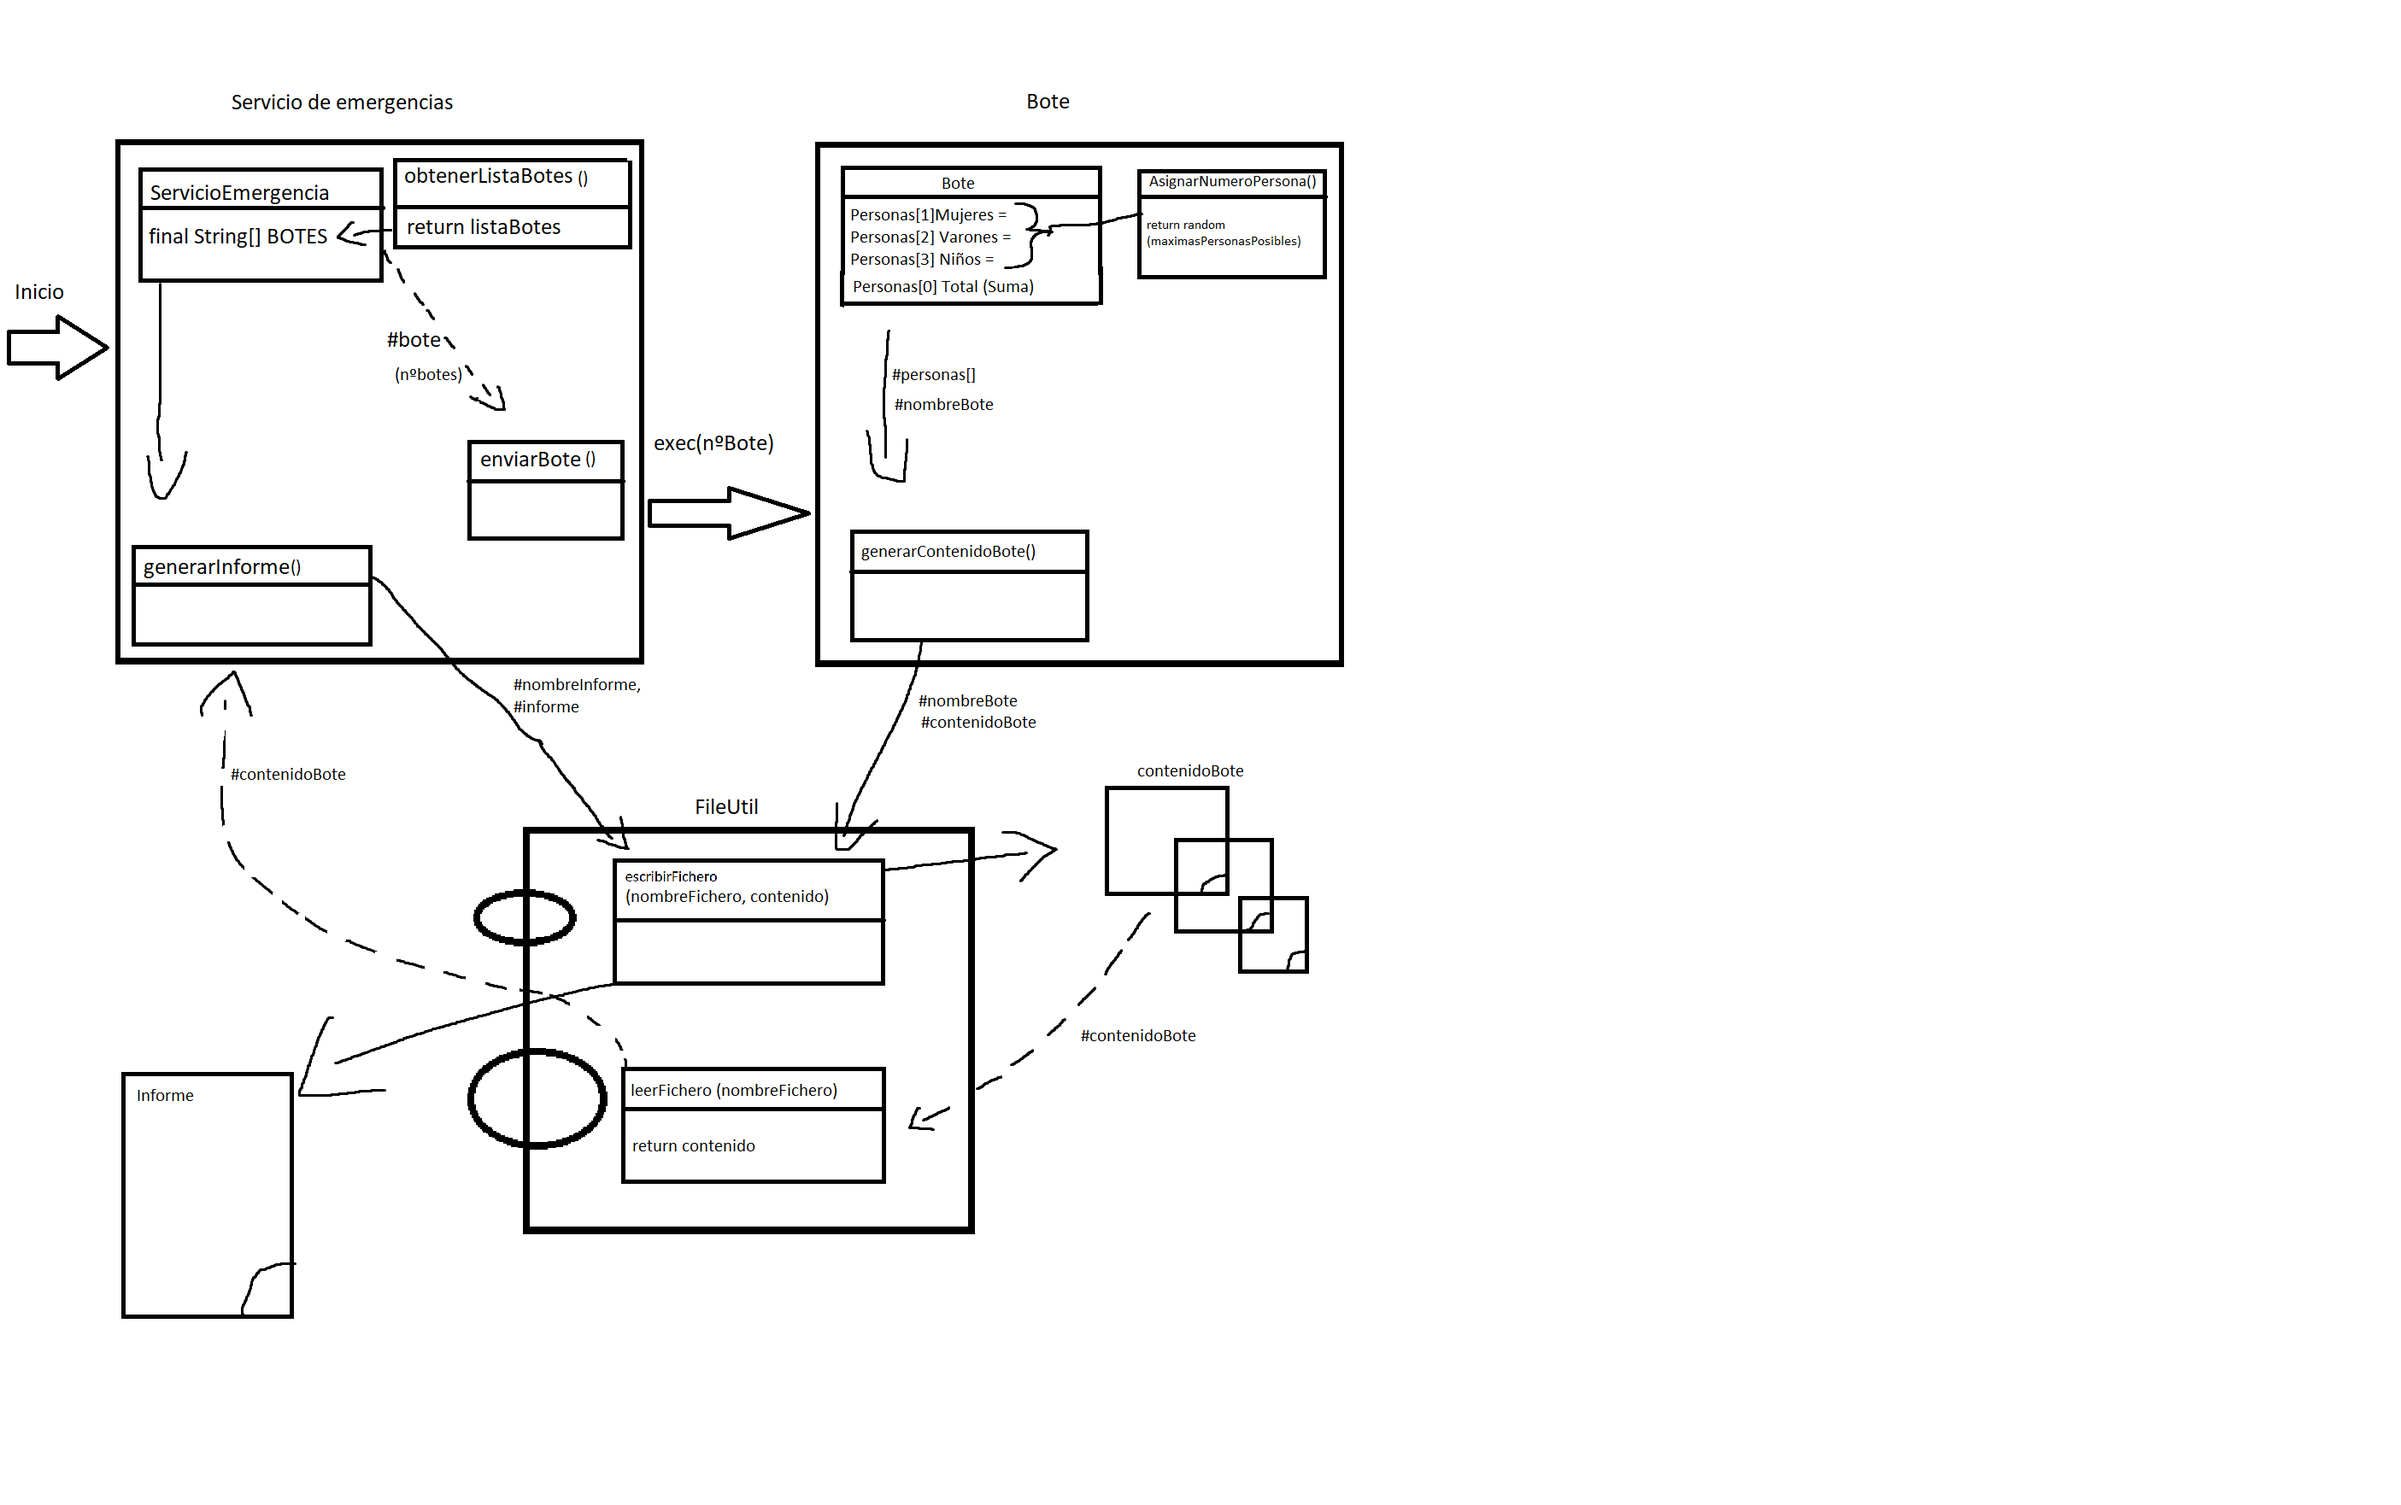
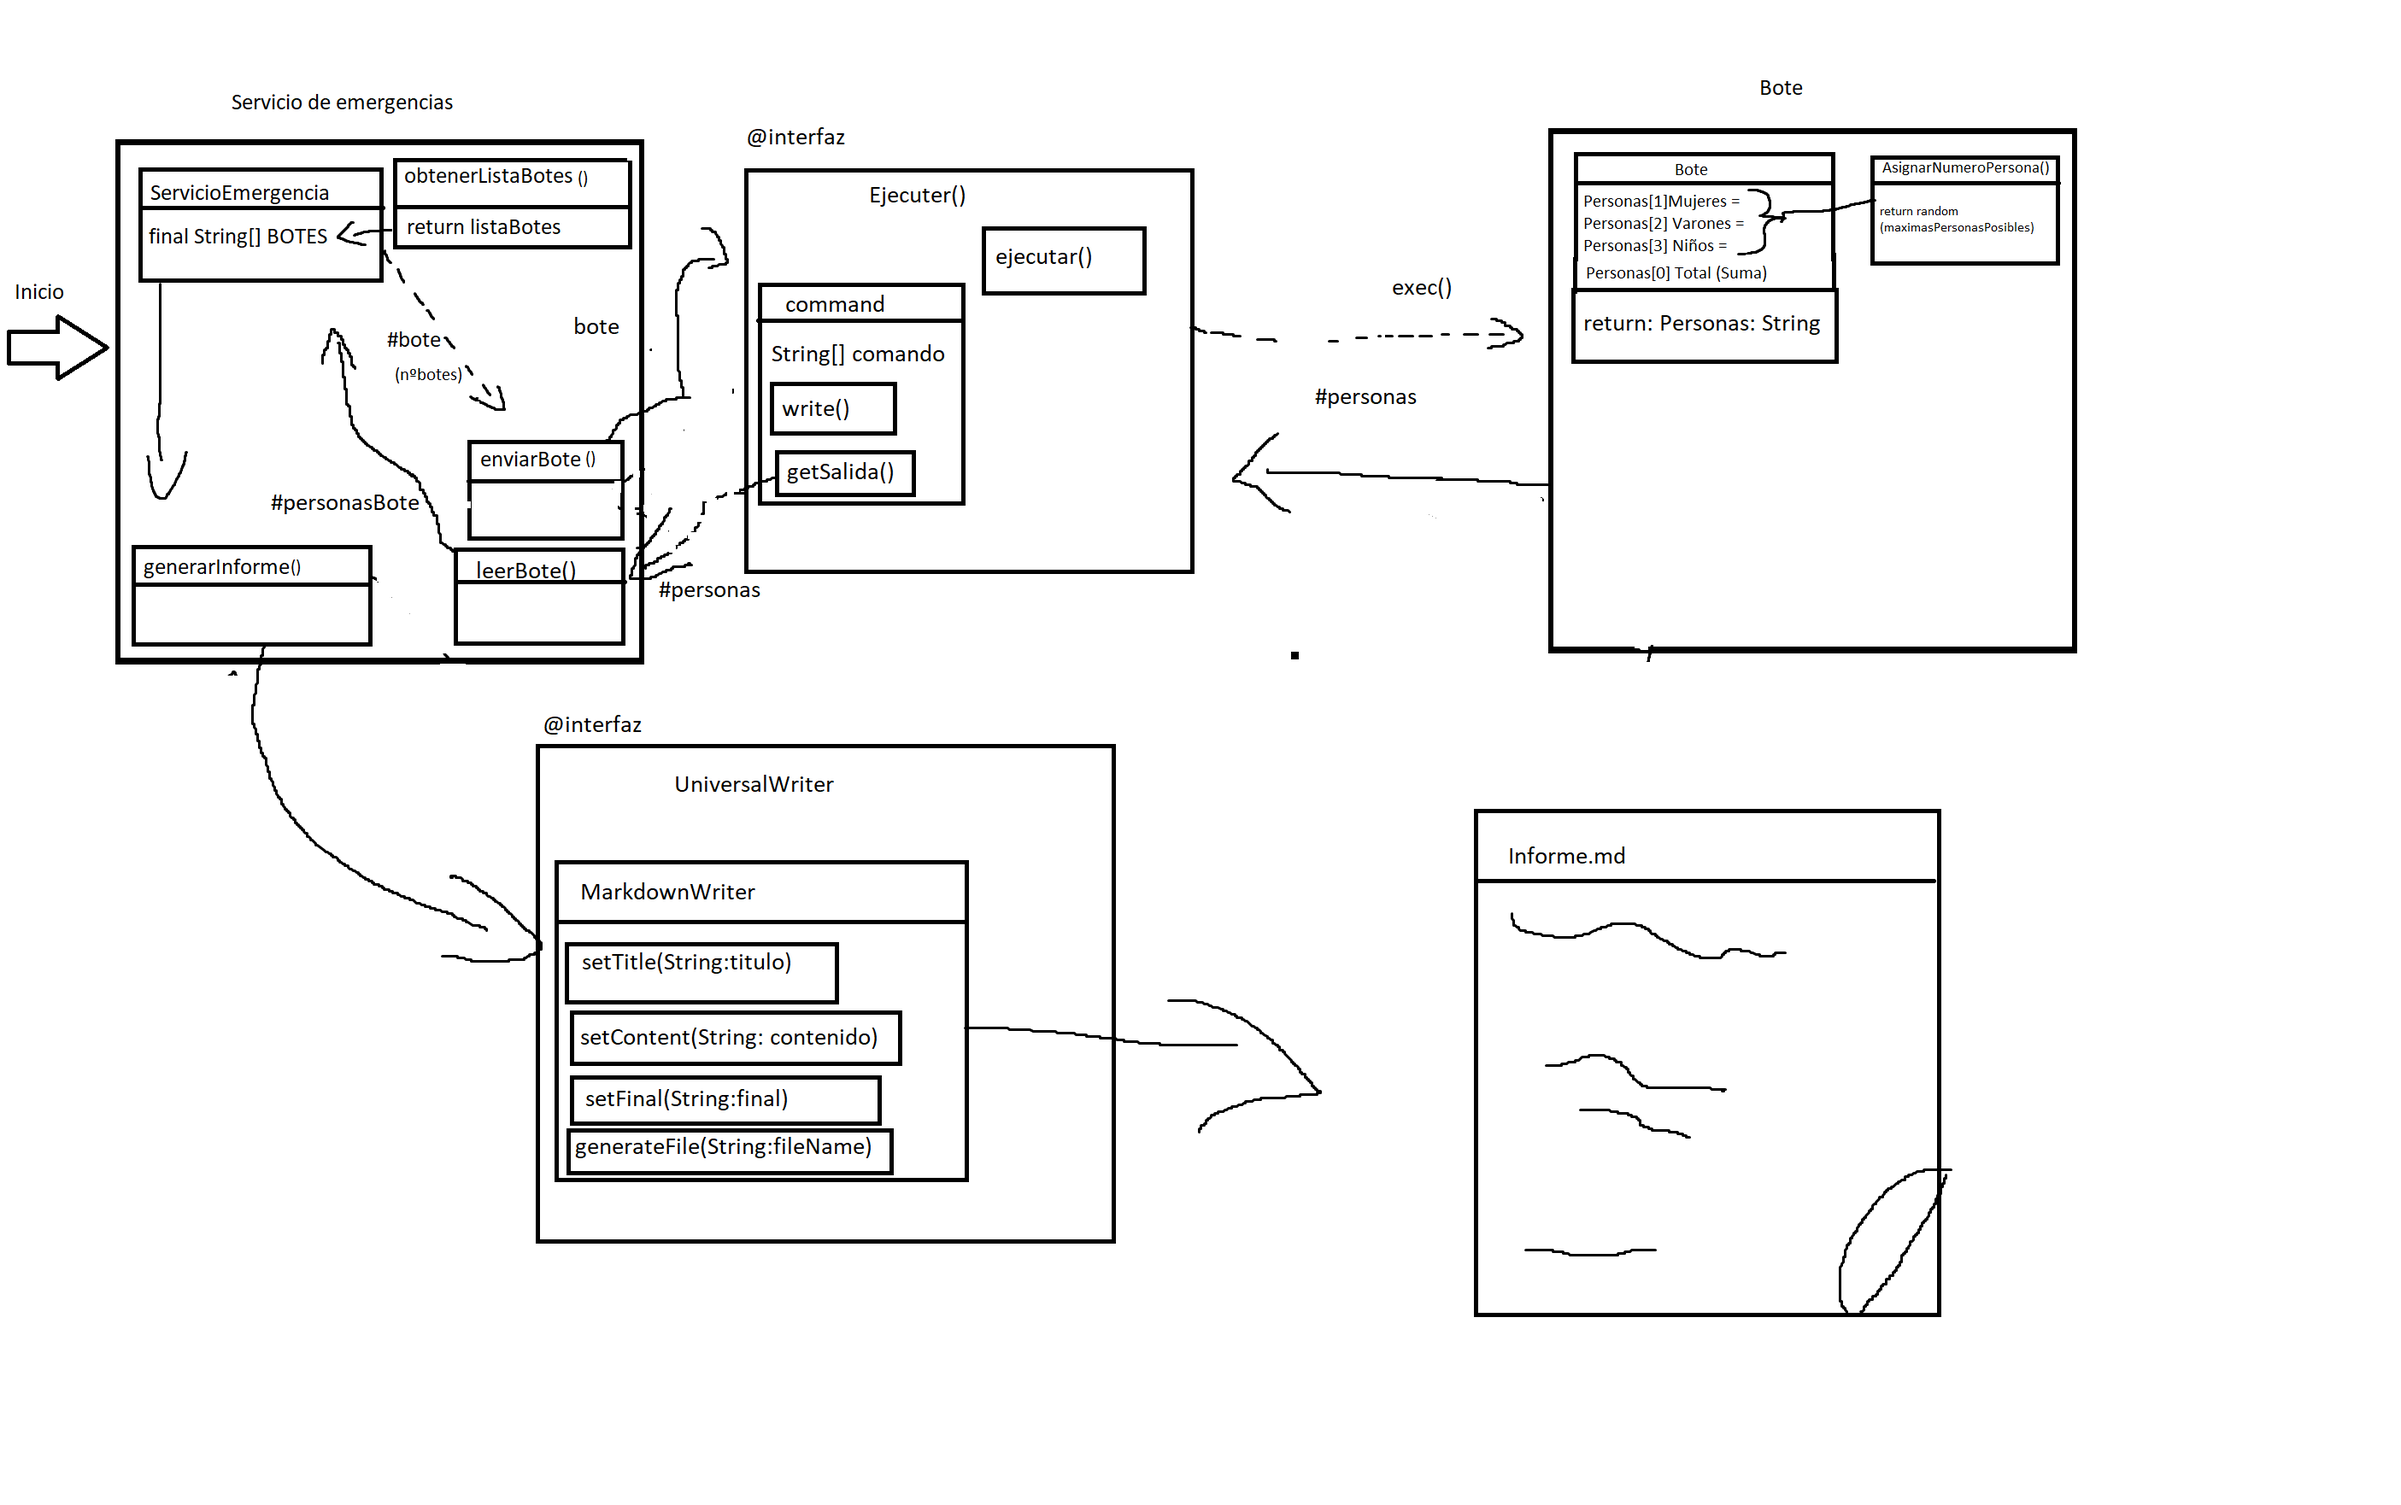
Documentacion mejorada

diff --git a/src/main/java/es/etg/dam/ejecuter/Command.java b/src/main/java/es/etg/dam/ejecuter/Command.java
@@ -1,0 +1,119 @@
+package es.etg.dam.ejecuter;
+
+import java.io.BufferedReader;
+import java.io.BufferedWriter;
+import java.io.IOException;
+import java.io.InputStream;
+import java.io.InputStreamReader;
+import java.io.OutputStream;
+import java.io.OutputStreamWriter;
+
+public class Command implements Ejecuter {
+
+    final String SALTO_DE_LINEA = "\n";
+    final String DEFAULT_EXIT = "";
+
+    private String exit = DEFAULT_EXIT;
+    private String exitError = DEFAULT_EXIT;
+
+    private boolean doWrite = false;
+    private String writeContent;
+
+    private final String[] COMANDO;
+
+    private Process processLocal;
+
+    public Command(String[] comando) {
+        this.COMANDO = comando;
+    }
+
+    @Override
+    public String[] readOut(){
+
+        final String ERROR_VALUE = "";
+        final Exception FAILED_PROCESS = new Exception("El proceso falló, pruebe a instalar imagemagick: sudo apt install imagemagick");
+        final String SUSCES_PROCESS = "Proceso ejecutado correctamente";
+
+
+        try {
+            String output;
+            String errOutput;
+
+            if (processLocal ==null) throw FAILED_PROCESS;
+
+            errOutput = read(processLocal.getErrorStream());
+            output = read(processLocal.getInputStream());
+
+            int exitVal = processLocal.waitFor();
+            if (exitVal == 0) {
+
+                this.exit = output;
+
+            } else {
+
+                this.exitError = errOutput;
+            }
+            if (exit.trim().equals(DEFAULT_EXIT)) exit = SUSCES_PROCESS;
+
+            return new String[]{exit, exitError};
+            
+        } catch (IOException | InterruptedException e) {
+            return new String[]{ERROR_VALUE, exitError};
+        } catch (Exception e){
+            return new String[]{e.toString(), exitError};
+        }
+
+    }
+
+    @Override
+    public void writeIn(String writeContent) {
+        doWrite = true;
+        this.writeContent = writeContent;
+    }
+
+    @Override
+    public void exec(){
+
+        final String ERROR_VALUE = "Error al ejecutar el comando ";
+
+        try {
+
+            Process process = Runtime.getRuntime().exec(COMANDO);
+            processLocal = process;
+
+            if (doWrite) {
+                write(process.getOutputStream(), writeContent);
+            }
+
+        } catch (IOException e) {
+
+            this.exitError = ERROR_VALUE + e;
+
+        }
+    }
+
+    private String read(InputStream is) throws IOException {
+
+        try (BufferedReader reader = new BufferedReader(new InputStreamReader(is))) {
+
+            StringBuilder output = new StringBuilder();
+            String line;
+
+            while ((line = reader.readLine()) != null) {
+                output.append(line).append(SALTO_DE_LINEA);
+            }
+
+            return output.toString();
+
+        }
+    }
+
+    private void write(OutputStream os, String mensaje) throws IOException {
+
+        try (BufferedWriter writer = new BufferedWriter(new OutputStreamWriter(os))) {
+
+            writer.write(mensaje);
+            writer.flush();
+        }
+    }
+}

diff --git a/src/main/java/es/etg/dam/writers/MarkdownWriter.java b/src/main/java/es/etg/dam/writers/MarkdownWriter.java
@@ -1,0 +1,99 @@
+package es.etg.dam.writers;
+
+import java.io.BufferedWriter;
+import java.io.File;
+import java.io.FileWriter;
+
+public class MarkdownWriter implements UniversalWriter{
+
+    private final static String TITLE_ANOTATION = "# ";
+    private final static String BLOCKQUOTE_ANOTATION = "> ";
+    private final static String MD_EXTENSION = ".md";
+    private final static String FOLDER_SEPARATOR = "/";
+    private final static String SALTO_DE_LINEA = "\n";
+
+
+    private String title;
+    private String content;
+    private String finalPart;
+    private String fileFolder = "files/";
+
+
+
+    @Override
+    public void setTitle(String title){
+        this.title = TITLE_ANOTATION + title;
+    }
+
+    @Override
+    public void setContent(String content){
+        this.content = content;
+    }
+    
+    @Override
+    public void setFinal(String finalPart){
+        this.finalPart = BLOCKQUOTE_ANOTATION + finalPart;
+    }
+
+    @Override
+    public void setFileFolder(String fileFolder){
+        this.fileFolder = fileFolder;
+    }
+
+    @Override
+    public boolean generateFile(String fileNoExtension){
+
+        final boolean ERROR_VALUE = false;
+        final boolean SUSCES_VALUE = true;
+
+        final String FILE_CONTENT_ERROR_VALUE = "";
+
+        String fileContent = joinAll();
+        if (fileContent.equals(FILE_CONTENT_ERROR_VALUE)) return ERROR_VALUE;
+
+        StringBuilder filePath = new StringBuilder();
+
+        filePath.append(fileFolder).append(FOLDER_SEPARATOR).append(fileNoExtension.trim()).append(MD_EXTENSION);
+
+        //Me pueden devolver valores raros en el String, solucionarlo a la proxima
+        File file = new File(filePath.toString());
+        System.out.println(file.getAbsolutePath());
+
+        try (BufferedWriter writer = new BufferedWriter(new FileWriter(file.getAbsolutePath()))){
+
+            writer.write(fileContent);
+            return SUSCES_VALUE;
+
+        } catch (Exception e) {
+            //System.err.println("e");
+            return ERROR_VALUE;
+        }
+
+    }
+
+    private String joinAll(){
+
+        final String ERROR_VALUE = "";
+
+        StringBuilder fileContent = new StringBuilder();
+
+        if (title != null) {
+            fileContent.append(title).append(SALTO_DE_LINEA).append(SALTO_DE_LINEA);
+        }
+
+        if (content != null) {
+            fileContent.append(content).append(SALTO_DE_LINEA);
+        }
+
+        if (finalPart != null) {
+            fileContent.append(finalPart).append(SALTO_DE_LINEA);
+        }
+
+        if (fileContent.isEmpty()) {
+            return ERROR_VALUE;
+        }
+
+        return fileContent.toString();
+
+    }
+}

diff --git a/src/main/java/es/etg/dam/writers/UniversalWriter.java b/src/main/java/es/etg/dam/writers/UniversalWriter.java
@@ -1,0 +1,10 @@
+package es.etg.dam.writers;
+
+public abstract interface UniversalWriter{
+
+    void setTitle(String title);
+    void setContent(String content);
+    void setFinal(String finalPart);
+    void setFileFolder(String fileFolder);
+    boolean generateFile(String fileNoExtension);
+}

diff --git a/src/main/java/es/etg/dam/ejecuter/Ejecuter.java b/src/main/java/es/etg/dam/ejecuter/Ejecuter.java
@@ -1,0 +1,8 @@
+package es.etg.dam.ejecuter;
+
+public abstract interface Ejecuter{
+    
+    String[] readOut();
+    void writeIn(String writeContent);
+    void exec();
+}

diff --git a/README.md b/README.md
@@ -1,1 +1,86 @@
-# Gestor de Botes
+# Gestor del Titanic
+
+***Miembros del grupo:*** Aitor Rebato, Erik De La Cruz
+
+## Analisis del problema
+
+Se pide implementar un programa que genere un documento sobre la cantidad de personas en cada bote.
+
+Cada bote tiene una cantidad de personas que debe ser anotado de manera individual
+
+Hay 20 botes en total cada uno con un identificador distindo
+
+Hay personas que no se salvarán, por lo que no hay que contar que sobren
+
+Los botes tardan de 2 a 6 segundos en contabilizar las personas que hay en el
+
+Por lo que el programa tendrá que ver las personas que hay en cada bote y generar el informe con los datos de cada bote
+
+---
+
+## Diseño de la solución
+
+### Arquitectura
+
+Explicación: Necesitamos un programa principal que gestione los botes, los lance, reciba la información y escriba el informe, los botes son gestionados de manera individual, tiene que recibir el numero de bote que le corresponde.
+
+Funcionamiento:
+
+- Iniciamos el programa
+- Servicio de emergencias genera 20 botes
+- Como los botes tardan de 2 a 6 segundos en ejecutarse, el programa deberá funcionar de manera *asincrona* y *bloqueante*, de esta manera cuando estan todos los botes en el mar, comienza a intentar leerlo
+    > El tiempo de espera será el tiempo del bote que mas tardó en ejecutarse
+- Los botes devuelven la cantidad de personas que contienen
+- Con los datos de los botes se generará el informe final
+
+![Dibujo de la arquitectura](doc/Arquitectura1.png)
+
+### Componentes
+
+***Servicio de emergencia:*** Recibe internamente la lista de los botes para tenerla en un array, lleva los botes al metodo `enviarBote()`, cuando todos los botes estan enviados, hace la función `leerBote()` para obtener un listado de las personas de todos los botes, finalmente manda esta información a `generarInforme()` para generar el informe.
+
+***Ejecuter:*** Es una interfaz que recibe un comando de `enviarBote` y lo ejecuta de manera asincrona, en este caso lanza bote y recibe su información para enviarla a `leerBote()`.
+
+***Bote:*** Es ejecutado la cantidad de botes que tenga el barco, tiene una función que le asigna un numero de personas sin pasarse de la cantidad maxima en este caso 100 `asignarNumeroPersona()` , y devuelve el numero de personas que hay.
+
+***UniversalWriter:*** Se ejecuta desde `generarInforme()` para crear el `informe.md` final donde esta escrita la cantidad de personas en cada bote.
+
+
+![Dibujo de los componentes](doc/Arquitectura2.png)
+
+### Protocolo de comunicación
+
+`Bote` enviará la información a través de un `System.out.print` para poder leer la salida estandar del proceso, y lo mandara con un formato ([Numero de Mujeres] [Numero de varones] [Numero de niños] [Total] ) separados con un espacio para su procesamiento en `generarInforme()`
+
+### Plan de pruebas
+
+Usaremos **JUNIT** y **Mockito** para esta parte y probaremos:
+
+**Bote:** Lo ejecutaremos 100 veces y de esas 100 veces ninguna deberá traer un valor total de personas mayor a 100, se simularán los datos de entrada y que saque el conteo de personas bien.
+
+**Ejecuter:** le mandaremos un programa que ejecute simple y probar que `getSalida()` lea bien, tambien probaremos a ejecutar un comando erroneo y que `getSalida()` tenga el codigo de error.
+
+**UniversalWriter:** Le pondremos a generar un informe y verlo que salga bien
+
+**ServicioDeEmergencias:** Se simularán los datos de los botes que reciba para comprobar que genera el informe final correctamente.
+
+---
+
+## Manual de usuario
+
+Para ejecutar el programa se debe lanzar `ServicioEmergencias.java`, y esperar a que en /informe salga el `informe.md`.
+
+Si se quieren cambiar la cantidad maxima de personas en cada bote: meterse en `Botes.java` y cambiar el valor del atributo cantidadMaximaPersonas (Cambiarlo despues con respecto)
+
+Si se quieren cambiar la cantidad maxima de botes lanzados, ir a `ServicioEmergencias.java` y cambiar el valor del atributo (pensar despues como se llama)
+
+---
+
+## Elementos destacables del desarrollo
+
+A la hora de recibir los datos de los botes se ha conseguido que el tiempo de espera sea el minimo.
+
+---
+
+## Problemas encontrados
+
